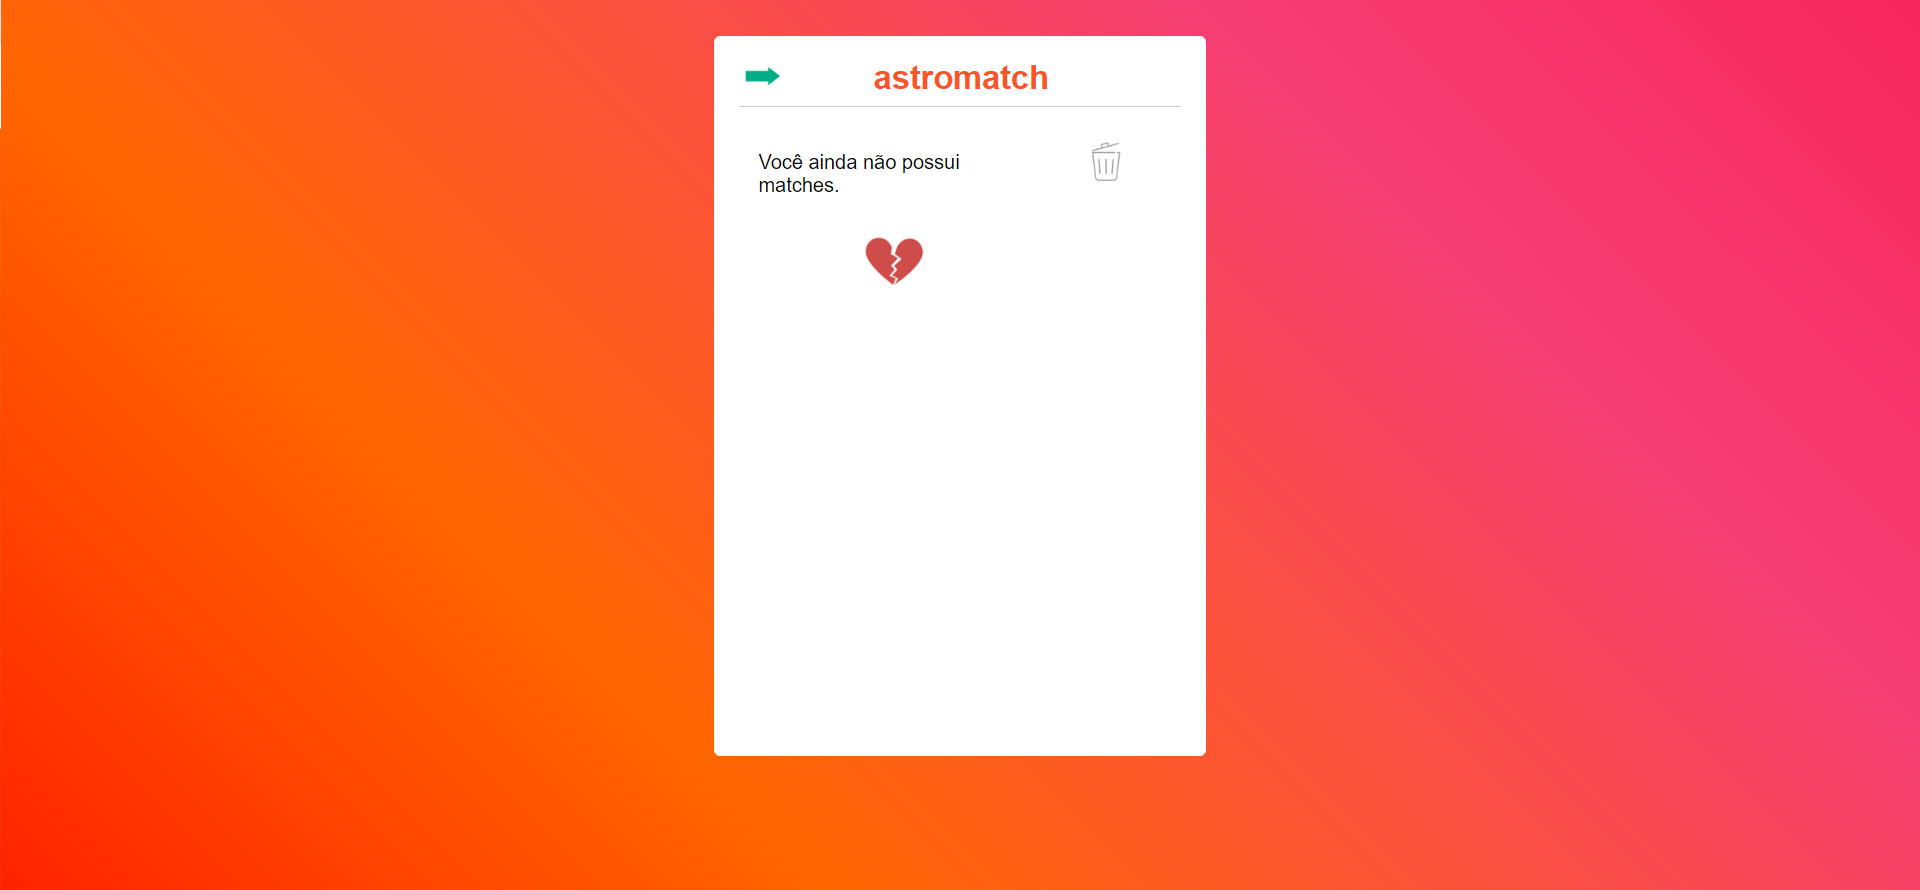
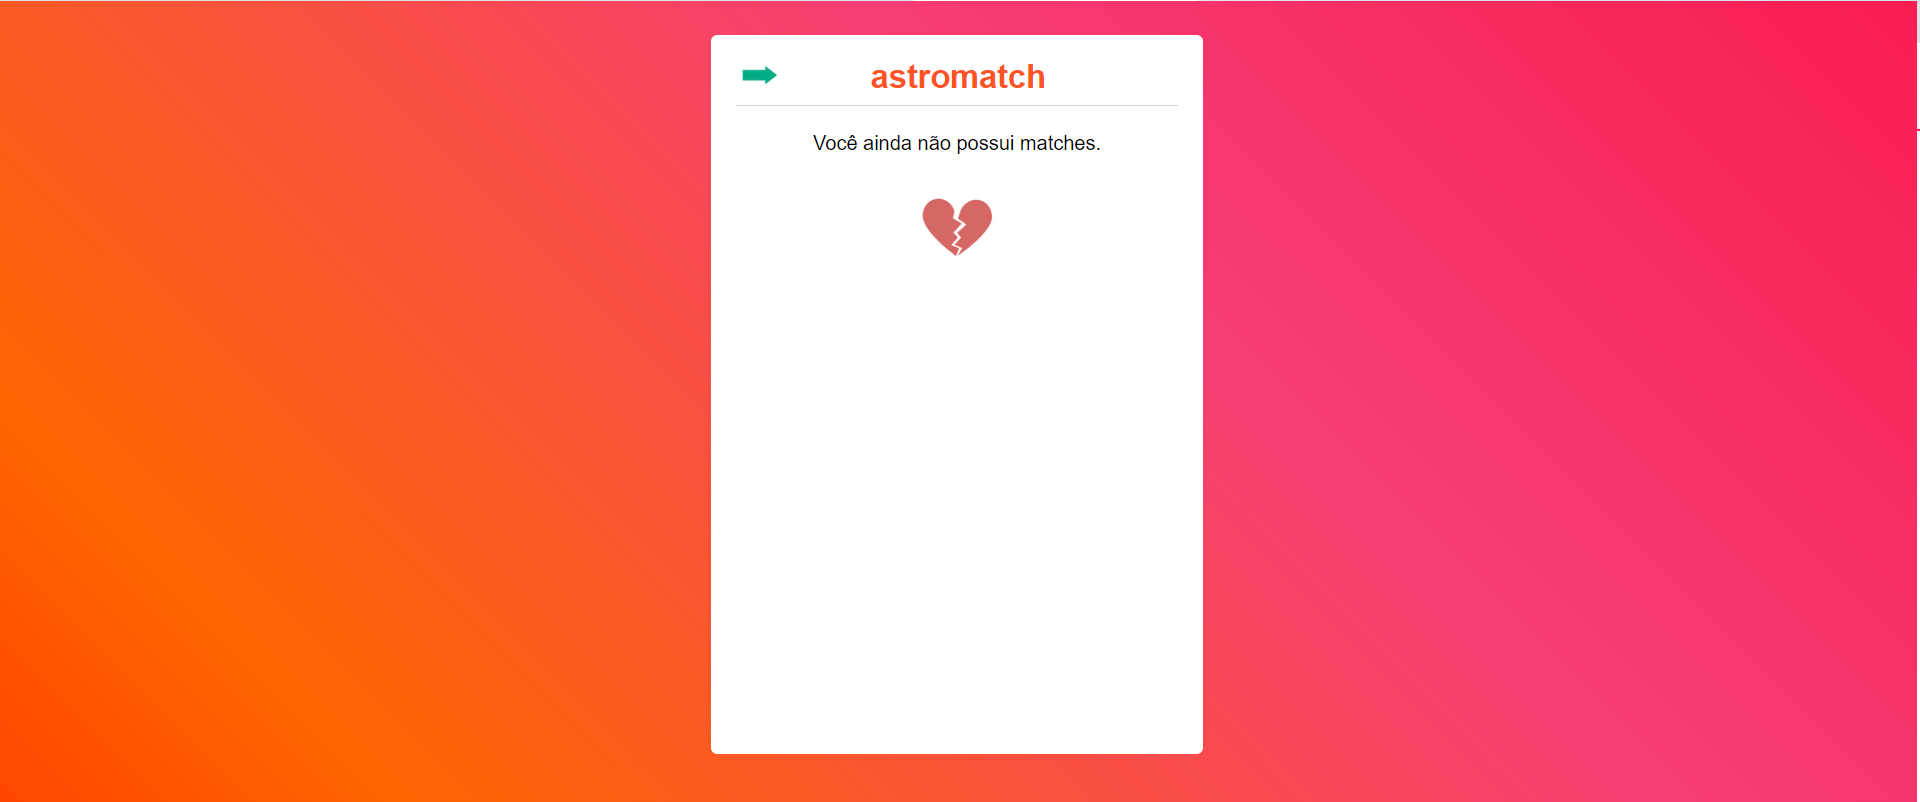
Versão final

diff --git a/src/components/Matches/style.jsx b/src/components/Matches/style.jsx
@@ -1,22 +1,50 @@
 import styled from "styled-components";
 
 
+export const NoMatches = styled.div `
+    p {
+        text-align: center;
+        @media screen and (min-width: 1000px) {
+            margin: 3vh 1vw;
+        }
+        @media screen and (min-width: 320px) and (max-width: 1000px) {
+            margin: 3vh 3vw;
+        }
+    }
+    img {
+        width: 20%;
+        display: block;
+        margin: 0 auto;
+        @keyframes beatingHeart {
+            from {
+                width: 20%;
+                opacity: .7;
+            }
+            to {
+                width: 23%;
+                opacity: 1;
+            }
+        }
+        animation: beatingHeart .6s ease infinite;
+    }
+`
+
+
 export const ContainerMatches = styled.section `
     display: grid;
     grid-template-columns: 70% 30%;
+    align-content: flex-start;
+
     @media screen and (min-width: 1400px) {   
-        min-height: 68vh;
+        min-height: 69vh;
     }
     @media screen and (min-width: 1200px) and (max-width: 1400px) {   
-        min-height: 70vh;
+        min-height: 71vh;
     }
     @media screen and (min-width: 1000px) and (max-width: 1200px) {   
         min-height: 69vh;
     }
-    @media screen and (min-width: 800px) and (max-width: 1000px) {   
-        min-height: 81vh;
-    }
-    @media screen and (min-width: 650px) and (max-width: 800px) {   
+    @media screen and (min-width: 650px) and (max-width: 1000px) {   
         min-height: 81vh;
     }
     @media screen and (min-width: 500px) and (max-width: 650px) {   
@@ -26,80 +54,6 @@ export const ContainerMatches = styled.section `
         min-height: 67.5vh;
     }
 `
-
-
-export const CardMatches = styled.section `
-    display: flex;
-    gap: 15px;
-    align-items: center;
-
-    @media screen and (min-width: 1200px) {
-        margin: 1vw;
-    }
-    @media screen and (min-width: 600px) and (max-width: 1200px) {
-        margin: 3vw;
-    }
-    @media screen and (min-width: 320px) and (max-width: 600px) {
-        margin: 3vh 5vw;
-    }
-
-    img {
-        border-radius: 50%;
-        @media screen and (min-width: 1300px) {
-            width: 3vw;
-            height: 7vh;
-        }
-        @media screen and (min-width: 1200px) and (max-width: 1300px) {
-            width: 4vw;
-            height: 7vh;
-        }
-        @media screen and (min-width: 1000px) and (max-width: 1200px) {
-            width: 4vw;
-            height: 6.5vh;
-        }
-        @media screen and (min-width: 800px) and (max-width: 1000px) {
-            width: 6vw;
-            height: 6vh;
-        }
-        @media screen and (min-width: 500px) and (max-width: 800px) {
-            width: 9vw;
-            height: 6vh;
-        }
-        @media screen and (min-width: 320px) and (max-width: 500px) {
-            width: 10vw;
-            height: 6vh;
-        }
-    }
-`
-
-
-export const NoMatches = styled.div `
-    p {
-        @media screen and (min-width: 1000px) {
-            margin: 3vh 1vw;
-        }
-        @media screen and (min-width: 320px) and (max-width: 1000px) {
-            margin: 3vh 3vw;
-        }
-    }
-    img {
-        width: 25%;
-        display: block;
-        margin: 0 auto;
-        @keyframes beatingHeart {
-            from {
-                width: 23%;
-                opacity: .7;
-            }
-            to {
-                width: 25%;
-                opacity: 1;
-            }
-        }
-        animation: beatingHeart .8s ease infinite;
-    }
-`
-
 
 export const DeleteButton = styled.button `
     border-radius: 5px;
@@ -142,6 +96,50 @@ export const DeleteButton = styled.button `
         @media screen and (min-width: 320px) and (max-width: 500px) {
             width: 6vw;
             margin: 2vh 0 0 9vw;
+        }
+    }
+`
+
+export const CardMatches = styled.section `
+    display: flex;
+    gap: 15px;
+    align-items: center;
+
+    @media screen and (min-width: 1200px) {
+        margin: 1vw;
+    }
+    @media screen and (min-width: 600px) and (max-width: 1200px) {
+        margin: 3vw;
+    }
+    @media screen and (min-width: 320px) and (max-width: 600px) {
+        margin: 3vh 5vw;
+    }
+
+    img {
+        border-radius: 50%;
+        @media screen and (min-width: 1300px) {
+            width: 3vw;
+            height: 7vh;
+        }
+        @media screen and (min-width: 1200px) and (max-width: 1300px) {
+            width: 4vw;
+            height: 7vh;
+        }
+        @media screen and (min-width: 1000px) and (max-width: 1200px) {
+            width: 4vw;
+            height: 6.5vh;
+        }
+        @media screen and (min-width: 800px) and (max-width: 1000px) {
+            width: 6vw;
+            height: 6vh;
+        }
+        @media screen and (min-width: 500px) and (max-width: 800px) {
+            width: 9vw;
+            height: 6vh;
+        }
+        @media screen and (min-width: 320px) and (max-width: 500px) {
+            width: 10vw;
+            height: 6vh;
         }
     }
 `

diff --git a/src/components/Matches/Matches.jsx b/src/components/Matches/Matches.jsx
@@ -18,7 +18,7 @@ export function Matches(props) {
     
     
     return (
-        <ContainerMatches>
+        <section>
             {props.matches.length === 0 && (
             <NoMatches>
                 <p>Você ainda não possui matches.</p>
@@ -26,21 +26,22 @@ export function Matches(props) {
             </NoMatches>)}
             
             {props.matches.length > 0 && (
-                <div>
-                    {props.matches.map((item, index) => {
-                        return (
-                            <CardMatches key={index}>
-                                <img src={item.photo} alt={item.photo_alt}/>
-                                <p>{item.name}</p>
-                            </CardMatches>
-                        )
-                    })}
-                </div>
+                <ContainerMatches>
+                    <section>
+                        {props.matches.map((item, index) => {
+                            return (
+                                <CardMatches key={index}>
+                                    <img src={item.photo} alt={item.photo_alt}/>
+                                    <p>{item.name}</p>
+                                </CardMatches>
+                            )
+                        })}
+                    </section>
+                    <DeleteButton onClick={handleClear}>
+                        <img src={iconDelete} alt={'Ícone de uma lixeira'}/>
+                    </DeleteButton>
+                </ContainerMatches>
             )}
-
-            <DeleteButton onClick={handleClear}>
-                <img src={iconDelete} alt={'Ícone de uma lixeira'}/>
-            </DeleteButton>
-        </ContainerMatches>
+        </section>
     )
 }

diff --git a/src/GlobalStyle.jsx b/src/GlobalStyle.jsx
@@ -93,10 +93,10 @@ export const ProfilesSection = styled.section `
     }
     @media screen and (min-width: 420px) and (max-width: 600px) {
         min-height: 75vh;
-        width: 85vw;
+        width: 82vw;
     }
     @media screen and (min-width: 320px) and (max-width: 420px) {
         min-height: 70vh;
-        width: 85vw;
+        width: 80vw;
     }
 `
